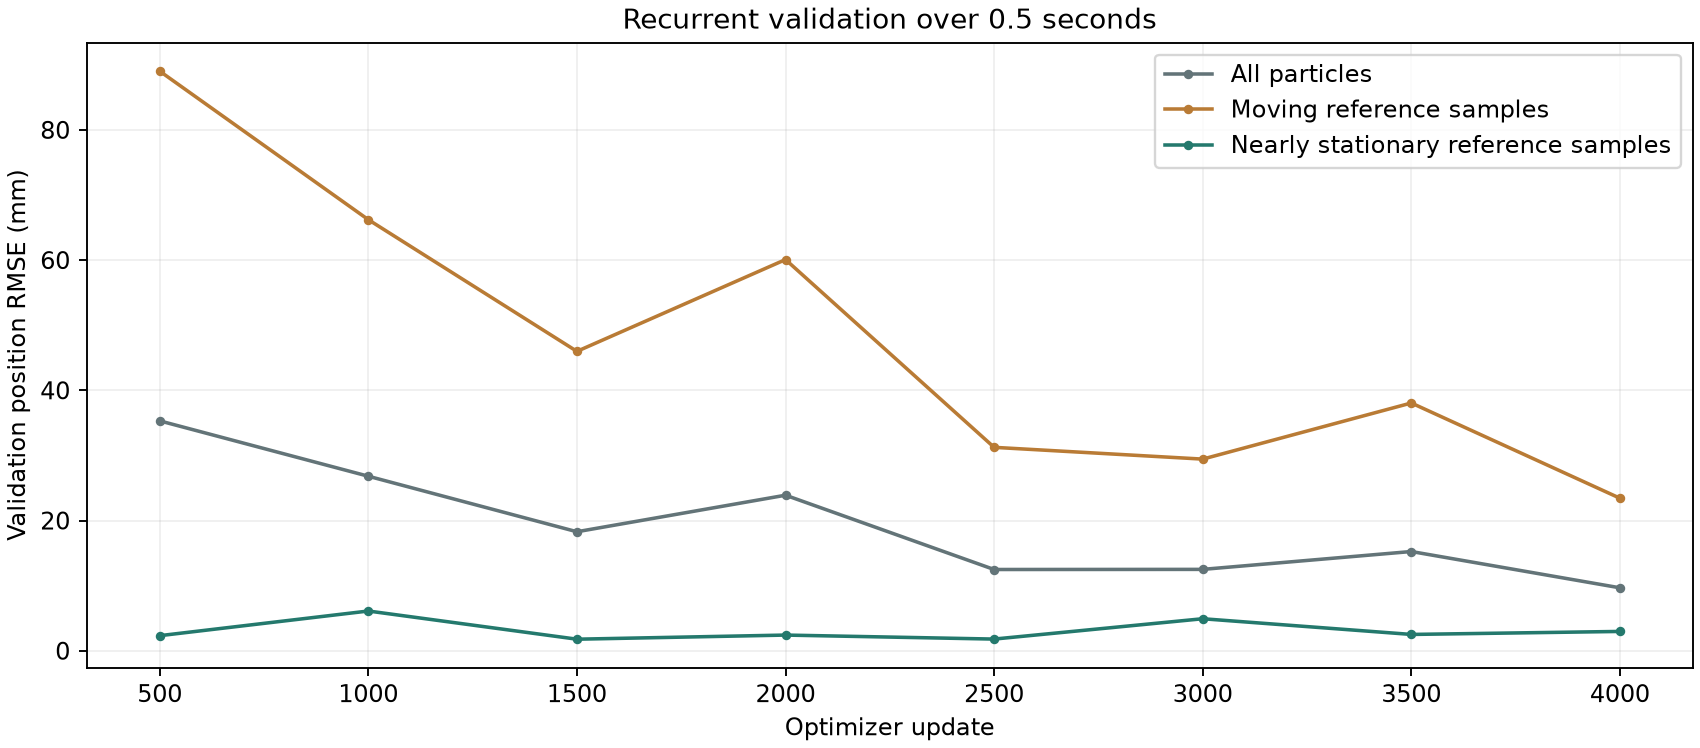
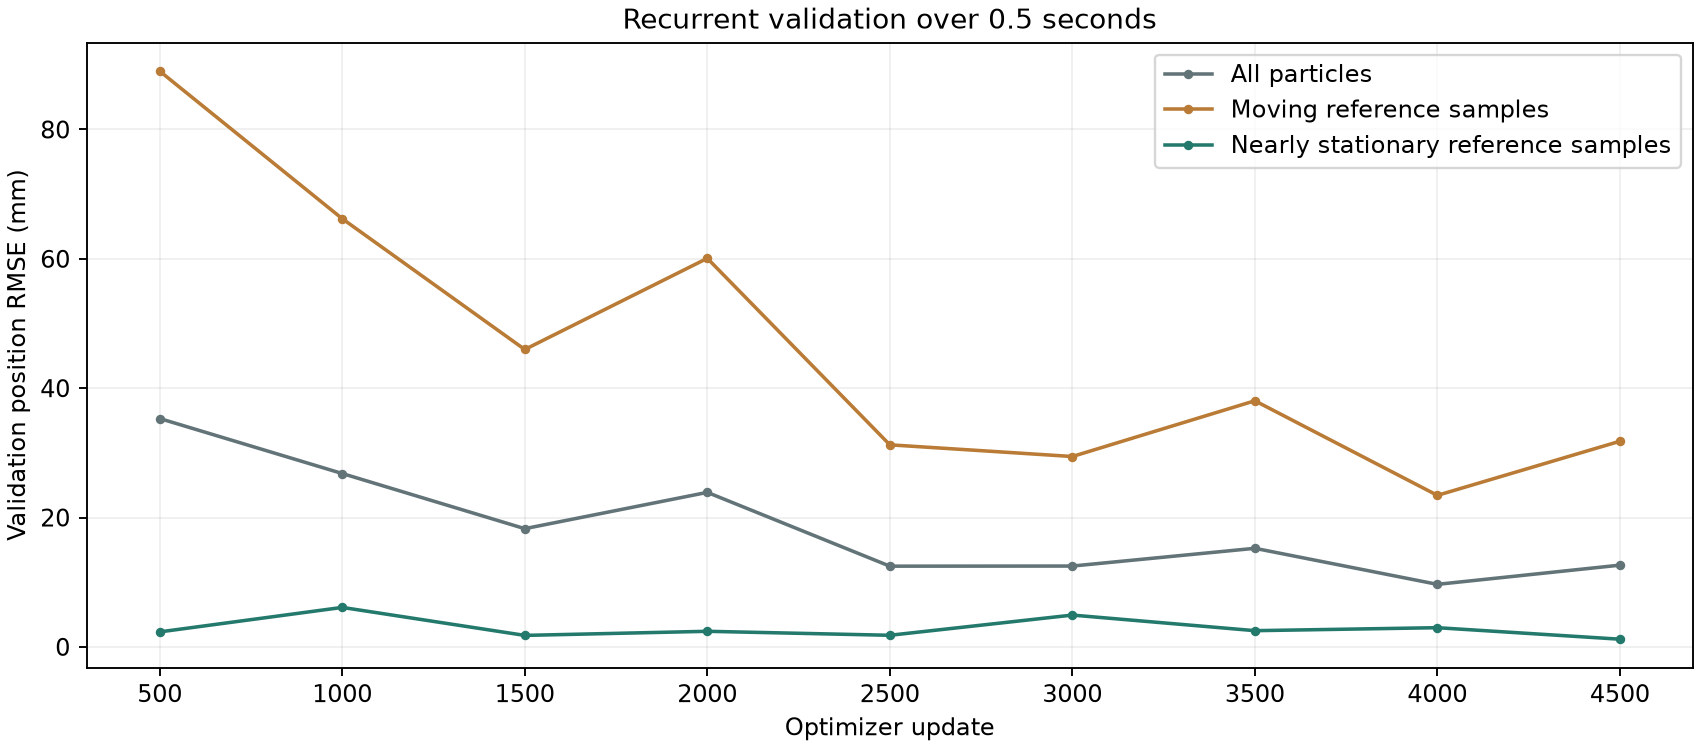
Update long-horizon Transolver progress (RUNNING)

diff --git a/transolver_long_horizon.html b/transolver_long_horizon.html
@@ -4,7 +4,7 @@
 <nav><a href="index.html">Methodology</a><a href="transolver.html">Transolver baseline</a><a href="gnn-v2.html">GNN v2</a></nav>
 <p class="tag">PARTICLE MOTION / RECURRENT TRAINING</p><h1>Transolver: 0.5-second training horizon</h1>
 <p class="lead">Reduce unwanted motion of settled material while retaining particle motion caused by the rigid box.</p>
-<div class="status"><strong>RUNNING</strong><p>Latest saved validation: update 4,000 / 10,000.</p><p><a href="https://us-west-2-aws.osmo.nvidia.com/workflows/particle-transolver-long-1">OSMO workflow</a> · <a href="https://dashboards.telemetry.dgxc.ngc.nvidia.com/d/workflow_resources/workflow-resources-v2?orgId=46&amp;var-datasource=ae6qyv87oh0cgd&amp;var-cluster=osmogroot-dgxc-k8s-forge-az41-prd1&amp;var-namespace=osmo-prod&amp;var-uuid=04e190c7cffc40b2&amp;from=now-1h&amp;to=now">GPU resource usage</a> · <a href="https://ovx-l40s-03.osmo.nvidia.com/dashboard/#/search?namespace=osmo-prod&amp;q=04e190c7cffc40b2">Task dashboard</a></p><p class="small">Updated 2026-10-20 04:22 UTC. Refresh this page for new checkpoint measurements.</p></div>
+<div class="status"><strong>RUNNING</strong><p>Latest saved validation: update 4,500 / 10,000.</p><p><a href="https://us-west-2-aws.osmo.nvidia.com/workflows/particle-transolver-long-1">OSMO workflow</a> · <a href="https://dashboards.telemetry.dgxc.ngc.nvidia.com/d/workflow_resources/workflow-resources-v2?orgId=46&amp;var-datasource=ae6qyv87oh0cgd&amp;var-cluster=osmogroot-dgxc-k8s-forge-az41-prd1&amp;var-namespace=osmo-prod&amp;var-uuid=04e190c7cffc40b2&amp;from=now-1h&amp;to=now">GPU resource usage</a> · <a href="https://ovx-l40s-03.osmo.nvidia.com/dashboard/#/search?namespace=osmo-prod&amp;q=04e190c7cffc40b2">Task dashboard</a></p><p class="small">Updated 2026-10-20 04:28 UTC. Refresh this page for new checkpoint measurements.</p></div>
 <h2>01 / Experiment</h2><table><tr><th>Setting</th><th>Baseline</th><th>New experiment</th></tr>
 <tr><td>Recurrent training horizon</td><td>4 steps / 0.08 s</td><td>25 steps / 0.5 s</td></tr>
 <tr><td>Loss</td><td>Moving samples weighted 5×; other samples 1×</td><td>Separate group means, equal weight</td></tr>
@@ -29,7 +29,7 @@ Backpropagate through the full sequence; no history reset or detached steps.</pr
 dt = 0.02 s</pre>
 <p>Both groups retain their reference position targets. Nearly stationary does not impose exactly zero motion. If a sequence contains only one group, that group receives the full loss. The grouping is based only on reference motion and does not freeze predicted particles.</p>
 <p>Each GPU trains on one sequence per update. Group normalization is applied within each sequence, then distributed training averages gradients. Recorded rigid-box pose and velocity are inputs at every step. Validation uses 32 fixed sequences at the same 25-step horizon. Checkpoint selection uses the square root of the average of the two pooled group mean squared position errors.</p>
-<h2>03 / Training progress</h2><table><tr><th>Validation measure at 25 steps</th><th>Latest value</th></tr><tr><td>All particle-time samples</td><td>9.665 mm</td></tr><tr><td>Moving reference samples</td><td>23.427 mm</td></tr><tr><td>Nearly stationary reference samples</td><td>2.964 mm</td></tr><tr><td>Balanced checkpoint-selection score</td><td>16.697 mm</td></tr></table><p class="small">Peak allocated PyTorch GPU memory on rank 0: 2.30 GiB. This excludes other processes and allocations outside PyTorch.</p><img src="assets/transolver-long-horizon/training.png" alt="Validation position errors over training updates">
+<h2>03 / Training progress</h2><table><tr><th>Validation measure at 25 steps</th><th>Latest value</th></tr><tr><td>All particle-time samples</td><td>12.634 mm</td></tr><tr><td>Moving reference samples</td><td>31.794 mm</td></tr><tr><td>Nearly stationary reference samples</td><td>1.185 mm</td></tr><tr><td>Balanced checkpoint-selection score</td><td>22.497 mm</td></tr></table><p class="small">Peak allocated PyTorch GPU memory on rank 0: 2.30 GiB. This excludes other processes and allocations outside PyTorch.</p><img src="assets/transolver-long-horizon/training.png" alt="Validation position errors over training updates">
 <p class="small">Do not compare these 25-step validation errors directly with the baseline's four-step validation error. Compare both models at the same evaluation horizon.</p>
 <h2>04 / Matched five-second evaluation</h2><p>Pending. Evaluate the selected checkpoint on the same twelve five-second trajectories as the baseline. Particle predictions are recurrent; recorded box pose and velocity are supplied at each step.</p>
 <h2 id="videos">05 / Prediction videos</h2><p>Scheduled after training: five-second Newton RTX comparisons for continuous dragging and pushing. Video rendering runs locally after the cloud evaluation finishes.</p><p class="small">Left: MPM reference particles. Right: recurrent Transolver particles from the selected long-horizon checkpoint. Both views replay the same recorded box motion. Particle predictions are not reset to MPM. Brown particles, gray box, lighting, camera, and display radius match the baseline videos. This is particle prediction, not force-estimator-driven box motion.</p>
